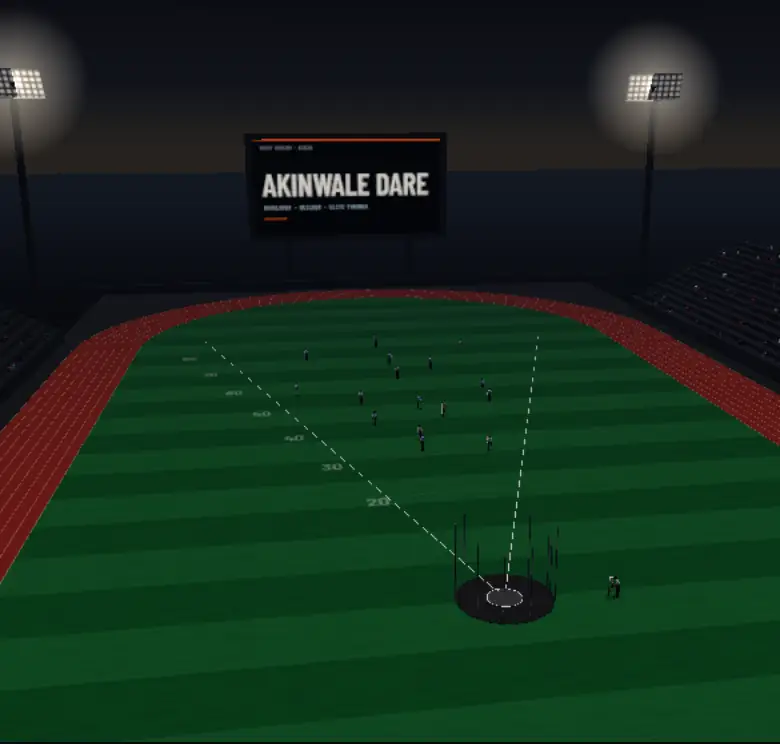
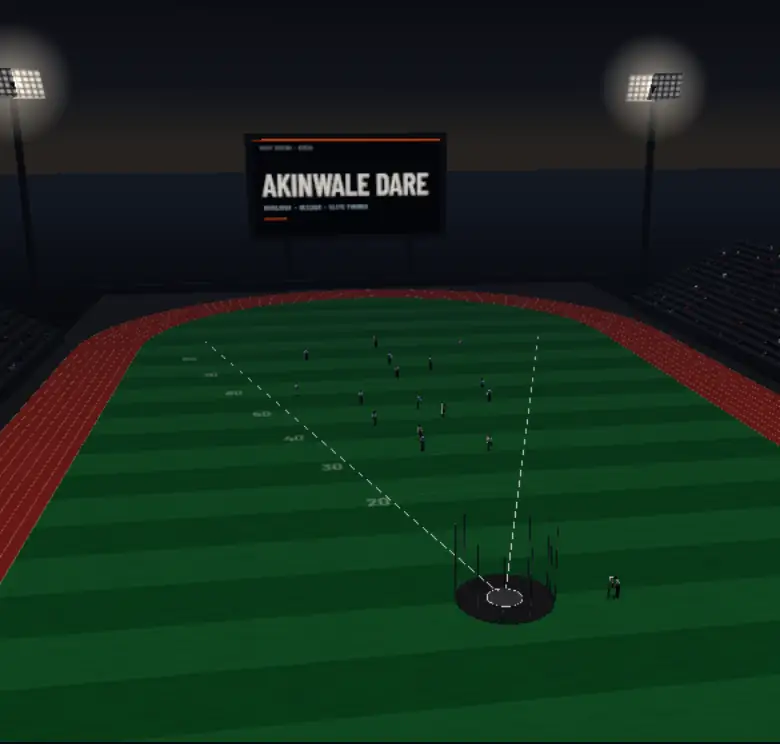
Board, press box, tunnel, cage: cleaner shots
- THE BOARD: the scoreboard shows one number at a time, full width, with a tick per row; the panel is a
  narrow index (label and value) with one caption for the picked row. No floodlight in the frame.
  This week's GitHub activity folds into the Last push row instead of a second list.
- THE PRESS BOX: one wide pane of glass, so no mullion cuts the board; the desk reads in the foreground
- THE TUNNEL: ceiling light panels across the tunnel instead of a dashed strip
- THE CIRCLE: the cage net is a fine dark mesh, not a bright grid; smaller floodlight glows
- The last scene's button goes back to the first instead of a dead Next
- Posters re-rendered from the same arrival frame

diff --git a/js/cinema3d.js b/js/cinema3d.js
@@ -58,10 +58,10 @@ const SHOTS = [
     tall: { pos: [-0.35, 1.75, -2.3], look: [0.3, 0.55, 20], fov: 56 } },
   { id: 'sector', pos: [-37, 17, 11], look: [3, 0, 47], fov: 42, shift: 0.12, dolly: [-5, 9],
     tall: { pos: [-28, 26, 2], look: [4, 0, 46], fov: 60 } },
-  { id: 'board', pos: [-5, 3.0, 70], look: [0, 19.5, 138], fov: 40, shift: 0.25, dolly: [-5, 12],
-    tall: { pos: [-3, 2.4, 74], look: [0, 19, 138], fov: 52 } },
-  { id: 'press', pos: [-72.2, 14.15, 30.6], look: [-30, 3, 52], fov: 52, shift: 0.04, via: [-60, 13.8, 33], dolly: [-0.3, 1.6],
-    tall: { pos: [-72.2, 14.15, 31.2], look: [-32, 2, 50], fov: 62 } },
+  { id: 'board', pos: [8, 5, 75], look: [-4, 17.5, 138], fov: 44, shift: 0.2, dolly: [-5, 9],
+    tall: { pos: [-1, 3.2, 72], look: [0, 18.5, 138], fov: 50 } },
+  { id: 'press', pos: [-71.4, 14.0, 31.5], look: [-32, 2, 62], fov: 52, shift: 0.04, via: [-60, 13.8, 33], dolly: [-0.3, 1.4],
+    tall: { pos: [-71.4, 14.0, 31.8], look: [-34, 1.5, 60], fov: 62 } },
   { id: 'tunnel', pos: [-70.6, 1.62, 40], look: [-30, 1.75, 40], fov: 44, shift: 0.1, via: [-43, 2.2, 40], dolly: [-0.6, 5],
     tall: { pos: [-70.6, 1.6, 40], look: [-30, 1.8, 40], fov: 56 } },
 ];
@@ -172,9 +172,10 @@ export async function init(o) {
     const posts = new THREE.InstancedMesh(new THREE.CylinderGeometry(0.038, 0.038, 5.6, 6), new THREE.MeshLambertMaterial({ color: 0x59606c }), n);
     for (let i = 0; i < n; i++) { const a = (a0 + ((a1 - a0) * i) / (n - 1)) * RAD; M.compose(V.set(CAGE * Math.sin(a), 2.8, CAGE * Math.cos(a)), Q.identity(), Sc.set(1, 1, 1)); posts.setMatrixAt(i, M); }
     posts.computeBoundingSphere(); still(posts);
-    const net = T(32, 32, (g) => { g.strokeStyle = 'rgba(205,212,226,.75)'; g.lineWidth = 1; g.strokeRect(0.5, 0.5, 32, 32); }).t;
-    net.wrapS = net.wrapT = THREE.RepeatWrapping; net.repeat.set(80, 20); net.anisotropy = aniso;
-    const netMesh = new THREE.Mesh(new THREE.CylinderGeometry(CAGE, CAGE, 5.4, 56, 1, true, a0 * RAD, (a1 - a0) * RAD), new THREE.MeshLambertMaterial({ map: net, transparent: true, opacity: 0.38, side: THREE.DoubleSide, depthWrite: false }));
+    // the net: a fine dark mesh (about 9 cm), which reads as netting and fades to a haze with distance
+    const net = T(32, 32, (g) => { g.strokeStyle = 'rgba(150,158,172,.55)'; g.lineWidth = 2; g.beginPath(); g.moveTo(0, 0); g.lineTo(32, 32); g.moveTo(32, 0); g.lineTo(0, 32); g.stroke(); }).t;
+    net.wrapS = net.wrapT = THREE.RepeatWrapping; net.repeat.set(190, 60); net.anisotropy = aniso;
+    const netMesh = new THREE.Mesh(new THREE.CylinderGeometry(CAGE, CAGE, 5.4, 56, 1, true, a0 * RAD, (a1 - a0) * RAD), new THREE.MeshLambertMaterial({ map: net, transparent: true, opacity: 0.3, side: THREE.DoubleSide, depthWrite: false }));
     netMesh.position.y = 2.75; still(netMesh);
   }
   await pause();
@@ -228,7 +229,7 @@ export async function init(o) {
     const glow = T(64, 64, (g) => { const r = g.createRadialGradient(32, 32, 0, 32, 32, 32); r.addColorStop(0, 'rgba(255,246,228,1)'); r.addColorStop(0.16, 'rgba(255,236,204,.45)'); r.addColorStop(1, 'rgba(255,236,204,0)'); g.fillStyle = r; g.fillRect(0, 0, 64, 64); }).t;
     const pos = new Float32Array(TOWERS.flatMap(([x, z]) => [x, H, z]));
     const g = new THREE.BufferGeometry(); g.setAttribute('position', new THREE.BufferAttribute(pos, 3));
-    scene.add(new THREE.Points(g, new THREE.PointsMaterial({ map: glow, size: 70, transparent: true, depthWrite: false, blending: THREE.AdditiveBlending, fog: false, toneMapped: false })));
+    scene.add(new THREE.Points(g, new THREE.PointsMaterial({ map: glow, size: 56, transparent: true, depthWrite: false, blending: THREE.AdditiveBlending, fog: false, toneMapped: false })));
   }
   await pause();
 
@@ -256,21 +257,17 @@ export async function init(o) {
       g.fillStyle = '#9fb8d0'; g.font = `600 ${27 * bk}px ${MONO}`; g.fillText('DEVELOPER · BUILDER · ELITE THROWER', pad + 4 * bk, 372 * bk);
       g.fillStyle = '#ff5a1f'; g.fillRect(pad + 4 * bk, 420 * bk, 120 * bk, 5 * bk);
     } else {
-      const r = BD.rows[BD.k % BD.rows.length], colX = W * 0.62;
-      g.fillStyle = '#9fb8d0'; g.font = `600 ${24 * bk}px ${MONO}`; g.fillText(r.label.toUpperCase(), pad, 122 * bk);
-      g.fillStyle = '#f2efe8'; const s = fit(g, r.big, `600 $px ${DISP}`, 230 * bk, colX - pad * 2.4); g.fillText(r.big, pad - 6 * bk, 330 * bk);
+      // one number at a time, full width: the label, the number, what it counts, where it comes from,
+      // and a tick per row along the bottom (the panel beside the film lists them all)
+      const n = BD.rows.length, k = BD.k % n, r = BD.rows[k];
+      g.fillStyle = '#9fb8d0'; g.font = `600 ${26 * bk}px ${MONO}`; g.fillText(r.label.toUpperCase(), pad, 128 * bk);
+      g.fillStyle = '#f2efe8'; const s = fit(g, r.big, `600 $px ${DISP}`, 250 * bk, W * 0.62); g.fillText(r.big, pad - 6 * bk, 338 * bk);
       const bw = g.measureText(r.big).width;
-      if (r.unit) { g.fillStyle = '#ff5a1f'; g.font = `600 ${Math.min(84 * bk, s * 0.38)}px ${DISP}`; g.fillText(r.unit.toUpperCase(), pad + bw + 8 * bk, 330 * bk); }
-      g.fillStyle = '#c9c6bf'; fit(g, r.what.toUpperCase(), `500 $px ${MONO}`, 24 * bk, colX - pad * 2); g.fillText(r.what.toUpperCase(), pad, 392 * bk);
-      g.fillStyle = '#8b97a8'; fit(g, r.src.toUpperCase(), `500 $px ${MONO}`, 19 * bk, colX - pad * 2); g.fillText(r.src.toUpperCase(), pad, 450 * bk);
-      g.fillStyle = '#1a1d24'; g.fillRect(colX - 24 * bk, 84 * bk, 2 * bk, H - 120 * bk);
-      const n = BD.rows.length, rowH = Math.min(52 * bk, (H - 130 * bk) / n);
-      BD.rows.forEach((x, j) => {
-        const y = 118 * bk + j * rowH, on = j === BD.k % n;
-        g.fillStyle = on ? '#ff5a1f' : '#2a2e37'; g.fillRect(colX, y - 20 * bk, 6 * bk, 26 * bk);
-        g.fillStyle = on ? '#f2efe8' : '#7d8796'; g.font = `600 ${21 * bk}px ${MONO}`; g.fillText(x.label.toUpperCase(), colX + 20 * bk, y);
-        g.textAlign = 'right'; g.fillText(`${x.big}${x.unit ? ' ' + x.unit : ''}`.toUpperCase(), W - pad, y); g.textAlign = 'left';
-      });
+      if (r.unit) { g.fillStyle = '#ff5a1f'; g.font = `600 ${Math.min(96 * bk, s * 0.4)}px ${DISP}`; g.fillText(r.unit.toUpperCase(), pad + bw + 12 * bk, 338 * bk); }
+      g.fillStyle = '#d9d5cc'; fit(g, r.what.toUpperCase(), `500 $px ${MONO}`, 27 * bk, W - pad * 2); g.fillText(r.what.toUpperCase(), pad, 398 * bk);
+      g.fillStyle = '#8b97a8'; fit(g, r.src.toUpperCase(), `500 $px ${MONO}`, 20 * bk, W - pad * 2); g.fillText(r.src.toUpperCase(), pad, 440 * bk);
+      const tw = (W - pad * 2 - (n - 1) * 10 * bk) / n;
+      for (let j = 0; j < n; j++) { g.fillStyle = j === k ? '#ff5a1f' : '#2a2e37'; g.fillRect(pad + j * (tw + 10 * bk), 470 * bk, tw, 5 * bk); }
     }
     // the LED grid, so it reads as a board and not a poster
     g.fillStyle = 'rgba(0,0,0,.3)'; const st = Math.max(3, 4 * bk);
@@ -291,17 +288,17 @@ export async function init(o) {
       span(x1, y1, z0, x0 + 0.3, y1 + 0.35, z1),            // roof
       span(x0 - 0.1, y0, z0, x0 + 0.3, y0 + 0.95, z1),      // the wall under the window
       span(x0 - 0.1, y1 - 0.55, z0, x0 + 0.3, y1, z1),      // the header over it
-      span(x0 - 1.0, y0 + 0.88, z0, x0 - 0.1, y0 + 0.95, z1), // the desk top
     ], shell);
+    // the desk top, light enough to read as a desk in the foreground
+    boxes([span(x0 - 1.0, y0 + 0.88, z0, x0 - 0.1, y0 + 0.95, z1)], new THREE.MeshLambertMaterial({ color: 0x4a443b }));
     boxes([
       span(x1 - 0.2, y0, z0, x1, y1, z1),                    // back wall (lit)
       span(x1, y0, z0 - 0.2, x0, y1, z0),                    // side walls
       span(x1, y0, z1, x0, y1, z1 + 0.2),
       span(x1, y1 - 0.06, z0, x0, y1, z1),                   // ceiling
     ], inner);
-    // window mullions, leaving the gap the camera flies through
-    const mull = []; for (let z = 27; z < z1; z += 3.5) mull.push(span(x0 + 0.02, y0 + 0.95, z - 0.05, x0 + 0.14, y1 - 0.55, z + 0.05));
-    boxes(mull, shell);
+    // one wide pane of glass: posts only at the two ends, so nothing crosses the view of the board
+    boxes([span(x0 + 0.02, y0 + 0.95, z0 + 0.2, x0 + 0.16, y1 - 0.55, z0 + 0.32), span(x0 + 0.02, y0 + 0.95, z1 - 0.32, x0 + 0.16, y1 - 0.55, z1 - 0.2)], shell);
     // ceiling lights, two monitors facing the seats, a microphone
     boxes([30, 37, 44, 51].map((z) => span(x1 + 2.2, y1 - 0.09, z - 0.6, x0 - 2.2, y1 - 0.07, z + 0.6)), new THREE.MeshBasicMaterial({ color: 0xe8dcc6 }));
     boxes([span(x0 - 0.75, y0 + 0.95, 35.2, x0 - 0.68, y0 + 1.42, 36.1), span(x0 - 0.75, y0 + 0.95, 44.2, x0 - 0.68, y0 + 1.42, 45.1)], new THREE.MeshBasicMaterial({ color: 0x1f2a36 }));
@@ -323,8 +320,9 @@ export async function init(o) {
     roof.position.set(-62, TUN.h - 0.04, 40); still(roof);
     const floor = new THREE.Mesh(new THREE.PlaneGeometry(23, TUN.z1 - TUN.z0).rotateX(-Math.PI / 2), new THREE.MeshLambertMaterial({ color: 0x1b1c20 }));
     floor.position.set(-60.5, 0.02, 40); still(floor);
-    const strips = []; for (let x = -53; x > -70; x -= 2.8) strips.push(span(x - 0.7, TUN.h - 0.09, 39.96, x + 0.7, TUN.h - 0.06, 40.04));
-    boxes(strips, new THREE.MeshBasicMaterial({ color: 0xfff4e6, toneMapped: false }));
+    // ceiling light panels across the tunnel (short along it), so they read as fittings, not a painted line
+    const strips = []; for (let x = -53.5; x > -64; x -= 3.2) strips.push(span(x - 0.32, TUN.h - 0.1, 38.7, x + 0.32, TUN.h - 0.06, 41.3));
+    boxes(strips, new THREE.MeshBasicMaterial({ color: 0xf3e7d4, toneMapped: false }));
     boxes([span(-72.2, 0, TUN.z0, -72, TUN.h, TUN.z1)], new THREE.MeshBasicMaterial({ color: 0x0d0e11 }));
     boxes([span(-72.0, 0.2, 39.1, -71.95, 2.4, 40.9)], new THREE.MeshBasicMaterial({ color: 0x6b5a44 }));
   }

diff --git a/cinema.css b/cinema.css
@@ -152,21 +152,25 @@
 .marks button[aria-current="true"] { border-left-color: var(--c-main); }
 .marks button[aria-current="true"] i { color: var(--c-main); }
 
-/* 03 THE BOARD: the numbers, with where and when each one came from */
-.rows { margin: 0 0 16px; padding: 0; list-style: none; border-top: 1px solid rgba(242, 239, 232, .14); text-shadow: none; }
-.rows button { display: grid; grid-template-columns: 130px 120px minmax(0, 1fr); grid-template-areas: "l v w" "l v s"; align-items: baseline; column-gap: 14px; width: 100%; padding: 9px 12px 9px 10px; border: 0; border-bottom: 1px solid rgba(242, 239, 232, .1); border-left: 2px solid transparent; background: rgba(10, 11, 13, .55); color: var(--c-fg); text-align: left; cursor: pointer; transition: background-color 100ms ease-out; }
+/* 03 THE BOARD: an index of the numbers. The one picked is up on the scoreboard; what it counts and
+   where it came from sit under the list (each row still carries both, for screen readers) */
+.rows { margin: 0 0 12px; padding: 0; list-style: none; border-top: 1px solid rgba(242, 239, 232, .14); text-shadow: none; }
+.rows button { display: grid; grid-template-columns: minmax(0, 1fr) auto; grid-template-areas: "l v" "w w" "s s"; align-items: center; column-gap: 14px; width: 100%; min-height: 44px; padding: 6px 12px 6px 10px; border: 0; border-bottom: 1px solid rgba(242, 239, 232, .1); border-left: 2px solid transparent; background: rgba(10, 11, 13, .55); color: var(--c-fg); text-align: left; cursor: pointer; transition: background-color 100ms ease-out; }
 .rows button:hover { background: rgba(17, 19, 23, .9); }
 .rows button[aria-pressed="true"] { border-left-color: var(--c-main); background: rgba(255, 90, 31, .1); }
 .b-l { grid-area: l; display: flex; align-items: center; gap: 8px; font: 500 11.5px/1.3 var(--f-text); letter-spacing: .14em; text-transform: uppercase; color: var(--c-fg2); }
+.rows button[aria-pressed="true"] .b-l { color: var(--c-fg); }
 .b-l .ldot { flex: none; width: 7px; height: 7px; border-radius: 50%; background: var(--c-alt); box-shadow: none; }
-.b-v { grid-area: v; white-space: nowrap; }
-.b-v b { font: 600 30px/1 var(--f-disp); }
-.b-v small { font: 600 16px/1 var(--f-disp); letter-spacing: .04em; color: var(--c-main); text-transform: uppercase; }
+.b-v { grid-area: v; white-space: nowrap; text-align: right; }
+.b-v b { font: 600 24px/1 var(--f-disp); }
+.b-v small { font: 600 14px/1 var(--f-disp); letter-spacing: .04em; color: var(--c-main); text-transform: uppercase; }
 .b-w { grid-area: w; font: 400 12.5px/1.4 var(--f-text); }
 .b-s { grid-area: s; font: 400 11.5px/1.4 var(--f-text); color: var(--c-alt); }
-.shipped { text-shadow: none; }
-.sh-h { display: flex; flex-wrap: wrap; justify-content: space-between; gap: 4px 12px; margin: 0 0 4px; font: 500 11.5px/1.4 var(--f-text); letter-spacing: .14em; text-transform: uppercase; }
-.sh-h span { color: var(--c-alt); letter-spacing: .08em; }
+.js .rows .b-w, .js .rows .b-s { position: absolute; width: 1px; height: 1px; overflow: hidden; clip-path: inset(50%); white-space: nowrap; }
+.b-cap { display: none; }
+.js .b-cap { display: grid; align-content: start; gap: 3px; min-height: 3.4em; margin: 0; text-shadow: none; }
+.b-cap [data-cap-what] { font: 400 13px/1.45 var(--f-text); color: var(--c-fg); }
+.b-cap [data-cap-src] { font: 400 11.5px/1.45 var(--f-text); color: var(--c-alt); }
 .f-list { margin: 0; padding: 0; list-style: none; }
 .f-list li { display: grid; grid-template-columns: 64px minmax(0, auto) minmax(0, 1fr); align-items: baseline; gap: 12px; padding: 6px 0; border-top: 1px solid rgba(242, 239, 232, .08); font-size: 12px; }
 .f-list time { font-size: 11.5px; letter-spacing: .06em; color: var(--c-fg2); white-space: nowrap; }
@@ -210,9 +214,9 @@
   .pl-num b { font-size: clamp(72px, 22vw, 104px); }
   .pl-go { gap: 8px; }
   .marks { position: fixed; left: 8px; right: 8px; bottom: 72px; width: auto; max-height: 60svh; grid-template-columns: 1fr; }
-  .rows button { grid-template-columns: minmax(0, 1fr) auto; grid-template-areas: "l v" "w w" "s s"; padding: 10px 10px 10px 10px; background: none; }
+  .rows button { padding: 4px 10px; background: none; }
   .rows button[aria-pressed="true"] { background: rgba(255, 90, 31, .08); }
-  .b-l, .b-s, .f-list li, .f-list time, .facts dt, .sh-h, .pl-stamp, .pl-cat, .slate, .sc-sub { font-size: 12px; }
+  .b-l, .b-s, .b-cap [data-cap-src], .f-list li, .f-list time, .facts dt, .pl-stamp, .pl-cat, .slate, .sc-sub { font-size: 12px; }
   .facts div { grid-template-columns: 96px minmax(0, 1fr); }
   .mail-menu { bottom: auto; top: calc(100% + 6px); min-width: 0; width: max(100%, 250px); }
 }
@@ -293,11 +297,6 @@ html:not(.js) .scene { position: static; width: auto; max-width: 760px; margin: 
   .cl-sec, .cl-t tr { break-inside: avoid; }
 }
 
-/* the board panel is a dense table: a little wider, tighter rows */
+/* the board panel: a narrow index, so the scoreboard keeps the frame */
 .scene[data-n="2"] .sc-h { margin-bottom: 12px; }
-@media (min-width: 760px) and (min-aspect-ratio: 4/5) {
-  .scene[data-n="2"] { width: min(660px, 47vw); }
-  .rows button { grid-template-columns: 116px 100px minmax(0, 1fr); padding: 7px 10px 7px 10px; }
-  .b-v b { font-size: 26px; }
-  .b-s { font-size: 11px; }
-}
+@media (min-width: 760px) and (min-aspect-ratio: 4/5) { .scene[data-n="2"] { width: min(420px, 36vw); } }

diff --git a/js/scenes.js b/js/scenes.js
@@ -159,6 +159,7 @@
   function boardRows() {
     const L = JD.live || {}, gh = L.gh, push = gh && gh.push;
     const pushAgo = push ? ago(push.at).split(' ') : null;
+    const week = L.events ? feed(L.events).filter((r) => r.week).length : 0;
     return [
       { label: 'Live now', big: L.up != null ? `${L.up}/${L.total}` : '11/11', unit: '', what: 'products answering your browser', src: L.probedAt ? `Probed from your browser at ${clock(L.probedAt)} · median ${L.median} ms` : 'Probed from your browser as the page loads', live: L.up != null },
       { label: 'Tests', big: '918', unit: '', what: 'passing across 8 projects', src: 'Re-run from each public repo · 15 Nov 2026' },
@@ -166,7 +167,7 @@
       { label: 'Frame time', big: '8.3', unit: 'ms', what: 'with 12 ragdolls on screen', src: 'RAGDOLL RIOT, M3 Pro, 475 frames · 15 Nov 2026' },
       { label: 'Clients', big: '2', unit: 'live', what: 'one taking cards on live Stripe', src: "D'extensionz · CleanBins Tuscaloosa" },
       { label: 'Open source', big: gh ? String(gh.repos) : '17', unit: 'repos', what: gh ? `public on GitHub · ${gh.stars} stars` : 'public on GitHub', src: gh ? `GitHub API at ${clock(gh.at)}` : 'GitHub · snapshot 15 Nov 2026', live: !!gh },
-      { label: 'Last push', big: pushAgo ? pushAgo[0] : '15', unit: pushAgo ? pushAgo.slice(1).join(' ') : 'Nov', what: push ? push.repo : 'peach-dash', src: push ? `GitHub API · ${new Date(push.at).toLocaleString([], { dateStyle: 'medium', timeStyle: 'short' })}` : 'GitHub · snapshot 15 Nov 2026', live: !!push },
+      { label: 'Last push', big: pushAgo ? pushAgo[0] : '15', unit: pushAgo ? pushAgo.slice(1).join(' ') : 'Nov', what: (push ? push.repo : 'peach-dash') + (week ? ` · ${week} public update${week === 1 ? '' : 's'} this week` : ''), src: push ? `GitHub API · ${new Date(push.at).toLocaleString([], { dateStyle: 'medium', timeStyle: 'short' })}` : 'GitHub · snapshot 15 Nov 2026', live: !!push },
     ];
   }
   function renderBoard() {
@@ -179,8 +180,8 @@
       const v = document.createElement('span'); v.className = 'b-v';
       const big = document.createElement('b'); big.textContent = r.big; v.append(big);
       if (r.unit) { const u = document.createElement('small'); u.textContent = r.unit; v.append(' ', u); }
-      const w = document.createElement('span'); w.className = 'b-w'; w.textContent = r.what;
-      const s = document.createElement('span'); s.className = 'b-s'; s.textContent = r.src;
+      const w = document.createElement('span'); w.className = 'b-w'; w.textContent = ` ${r.what}.`;
+      const s = document.createElement('span'); s.className = 'b-s'; s.textContent = ` ${r.src}.`;
       b.append(l, v, w, s);
       b.addEventListener('click', () => { rowK = k; boardFocus(); });
       li.appendChild(b);
@@ -188,8 +189,11 @@
     }));
     boardFocus(true);
   }
+  const capWhat = $('[data-cap-what]'), capSrc = $('[data-cap-src]');
   function boardFocus(quiet) {
     for (const b of rowsBox.querySelectorAll('[data-row]')) b.setAttribute('aria-pressed', String(+b.dataset.row === rowK));
+    const r = rows[rowK];
+    if (r) { capWhat.textContent = r.what; capSrc.textContent = r.src; }
     if (three) three.board({ rows, k: rowK });
     if (!quiet) restartCycle();
   }
@@ -248,8 +252,9 @@
     for (const a of nav) { if (+a.dataset.go === scene && a.closest('.cine-shots')) a.setAttribute('aria-current', 'step'); else a.removeAttribute('aria-current'); }
     count.textContent = pad2(scene + 1);
     prevBtn.disabled = scene === 0;
-    nextBtn.disabled = scene === 4;
-    nextBtn.querySelector('span').textContent = scene < 4 ? NAMES[scene + 1] : NAMES[4];
+    // the last scene offers the way back to the first instead of a dead "next"
+    nextBtn.firstChild.nodeValue = scene < 4 ? 'Next: ' : 'Back to: ';
+    nextBtn.querySelector('span').textContent = NAMES[scene < 4 ? scene + 1 : 0];
   }
   function show(i, o = {}) {
     i = Math.max(0, Math.min(SCENES.length - 1, i));
@@ -270,7 +275,7 @@
     restartCycle();
   }
   for (const a of nav) a.addEventListener('click', (e) => { if (e.metaKey || e.ctrlKey || e.shiftKey) return; e.preventDefault(); show(+a.dataset.go); });
-  nextBtn.addEventListener('click', () => show(scene + 1));
+  nextBtn.addEventListener('click', () => show(scene < 4 ? scene + 1 : 0));
   prevBtn.addEventListener('click', () => show(scene - 1));
   addEventListener('hashchange', () => { const k = SCENES.indexOf(location.hash.slice(1)); if (k >= 0) { if (view() !== 'stage') setView('stage', { keepUrl: true }); show(k); } });
   for (const p of panels) { const s = p.querySelector('.slate'); if (s) s.tabIndex = -1; }

diff --git a/index.html b/index.html
@@ -115,8 +115,8 @@
   <section class="cine" id="stage" aria-label="Akinwale Dare, in five scenes">
     <div class="cine-frame">
       <picture class="cine-poster">
-        <source media="(max-width: 759px), (max-aspect-ratio: 4/5)" srcset="img/poster-tall.webp" type="image/webp" width="780" height="740">
-        <img src="img/poster.webp" alt="" width="1600" height="866" fetchpriority="high">
+        <source media="(max-width: 759px), (max-aspect-ratio: 4/5)" srcset="img/poster-tall.webp" type="image/webp" width="780" height="744">
+        <img src="img/poster.webp" alt="" width="1600" height="867" fetchpriority="high">
       </picture>
       <canvas class="cine-canvas" aria-hidden="true"></canvas>
     </div>
@@ -187,14 +187,7 @@
           <li><button type="button" data-row="5" aria-pressed="false"><span class="b-l">Open source</span><span class="b-v"><b>17</b> <small>repos</small></span><span class="b-w">public on GitHub</span><span class="b-s">GitHub · snapshot 15 Nov 2026</span></button></li>
           <li><button type="button" data-row="6" aria-pressed="false"><span class="b-l">Last push</span><span class="b-v"><b>15</b> <small>Nov</small></span><span class="b-w">peach-dash</span><span class="b-s">GitHub · snapshot 15 Nov 2026</span></button></li>
         </ol>
-        <div class="shipped">
-          <p class="sh-h">Shipped this week <span data-feed-stamp>GitHub · snapshot 15 Nov</span></p>
-          <ol class="f-list" data-feed data-max="3">
-            <li><time datetime="2026-11-15T20:00:13Z">15 Nov</time><a href="https://github.com/Waleee7/peach-dash/commit/3645750" target="_blank" rel="noopener">peach-dash</a><span>Lighter on phones</span></li>
-            <li><time datetime="2026-11-07T19:22:18Z">7 Nov</time><a href="https://github.com/Waleee7/ragdoll-riot" target="_blank" rel="noopener">ragdoll-riot</a><span>Pushed to main</span></li>
-            <li><time datetime="2026-11-06T16:13:28Z">6 Nov</time><a href="https://github.com/Waleee7/GlobalLingo" target="_blank" rel="noopener">GlobalLingo</a><span>Pushed to main</span></li>
-          </ol>
-        </div>
+        <p class="b-cap"><span data-cap-what>products answering your browser</span><span data-cap-src>Probed from your browser as the page loads</span></p>
       </section>
 
       <section class="scene" id="the-press-box" data-n="3" aria-labelledby="sc-3">
